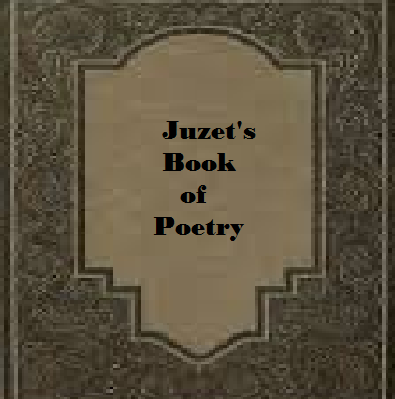
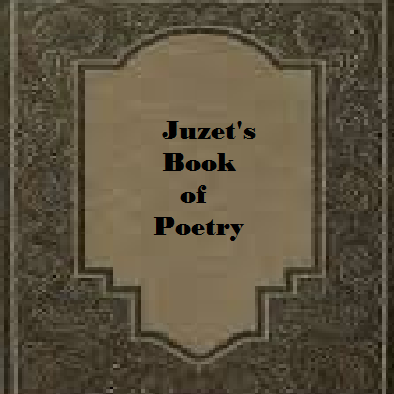
changed the margin for the caousel

diff --git a/css/main.css b/css/main.css
@@ -63,7 +63,7 @@
 }
 #carousel-example-generic{
 	width:385px;
-	margin:5% 35%;
+	margin:3% 36%;
 }
 .aboutme{
 	color: white;
@@ -87,7 +87,7 @@
 	margin-left: 21%;
 	text-decoration: none;
 	color: white;
-	
+
 }
 .link2{
 	margin-left: 20%;
